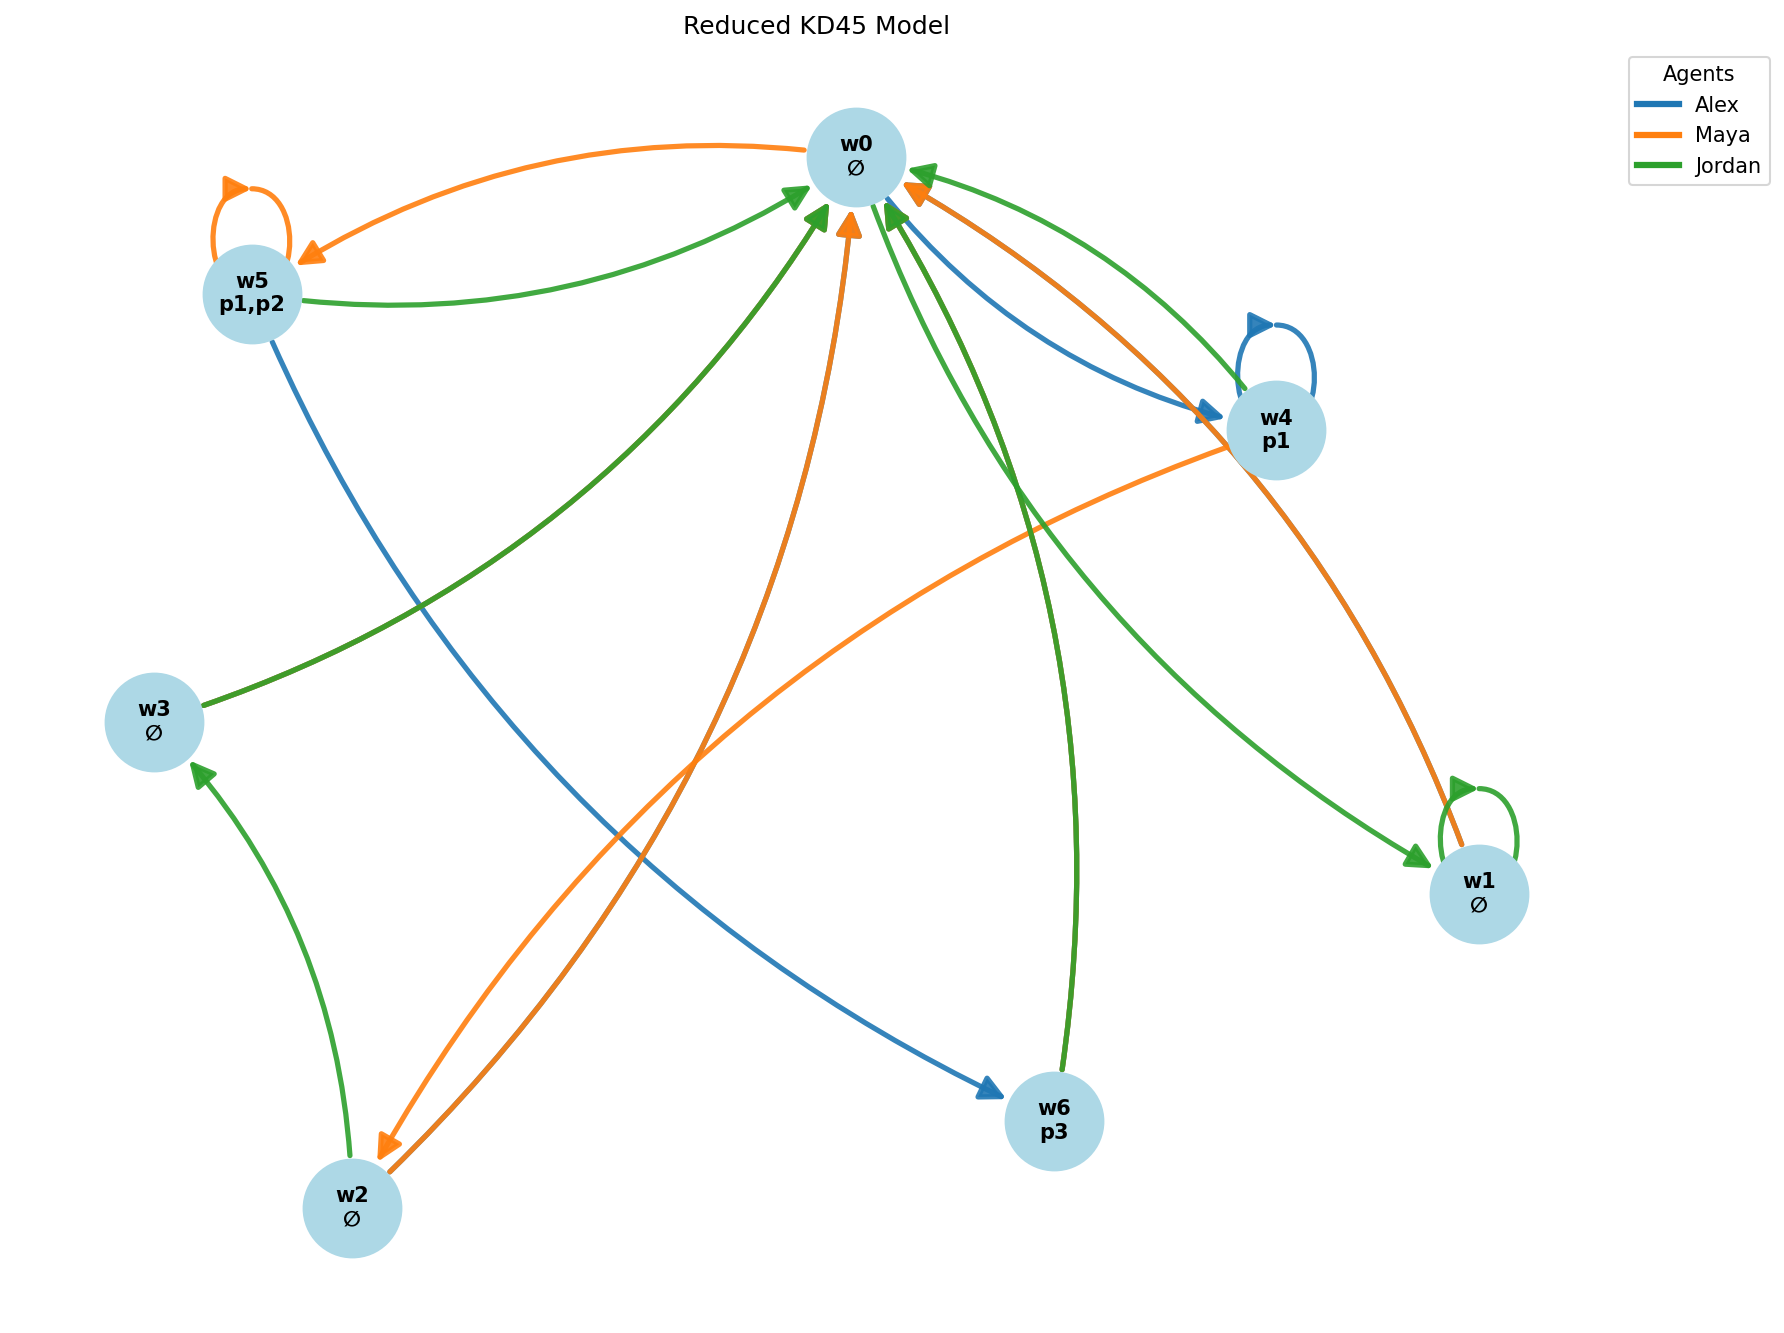
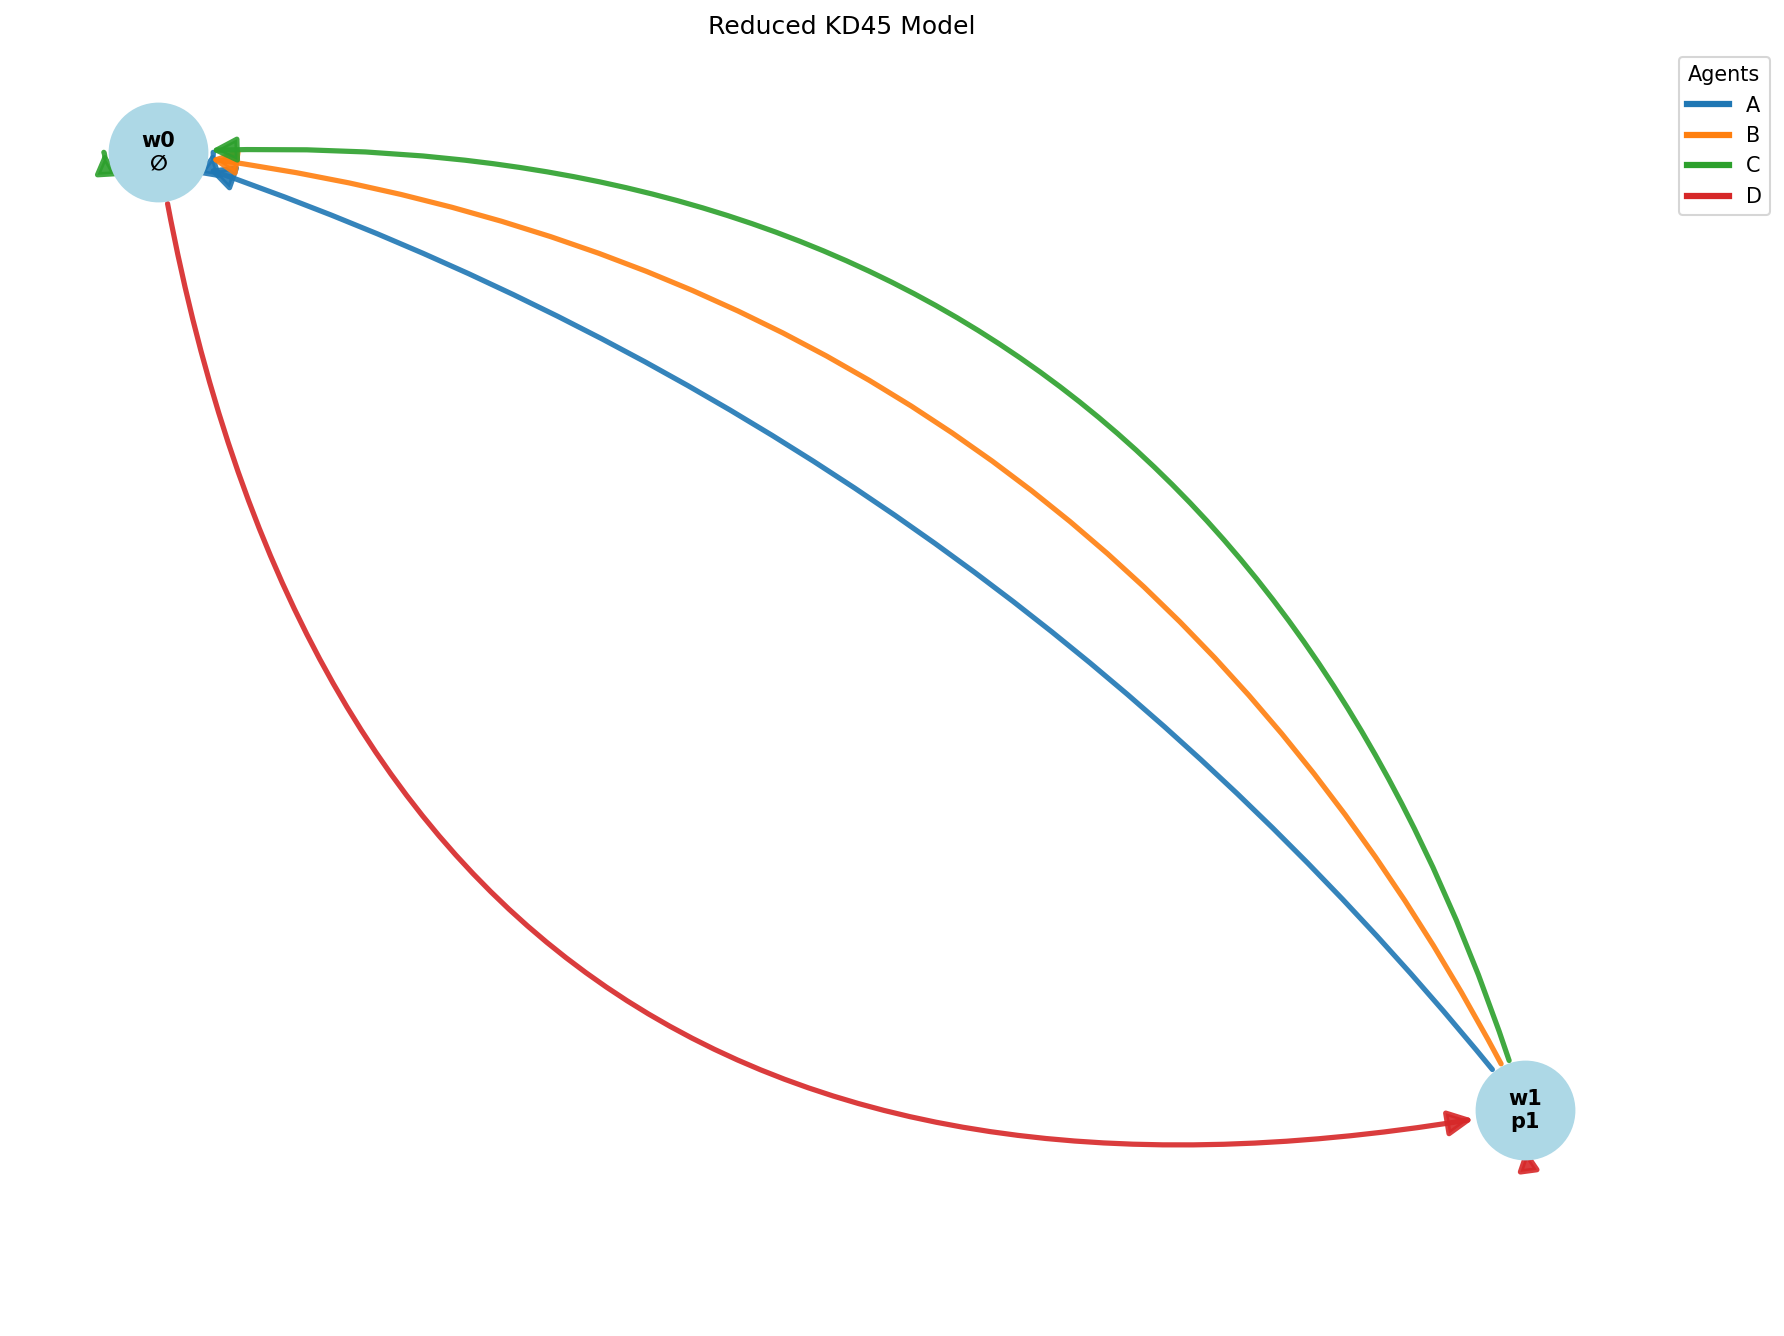
fixes and visual

diff --git a/kripke/model.py b/kripke/model.py
@@ -4,6 +4,7 @@ from core.ast_parser import Proposition, Not, Belief, Node
 
 @dataclass
 class KripkeModel:
+    
     worlds: List[int]
     agents: List[str]
     propositions: List[str]
@@ -13,81 +14,143 @@ class KripkeModel:
     enforce_frame: bool = True
 
     def __post_init__(self):
-        if self.enforce_frame:
+        if not self.enforce_frame or self.requirements is None:
+            return
+
+        changed = True
+        while changed:
+            before_rel = {a: set(r) for a, r in self.relations.items()}
+            before_req = {w: set(f) for w, f in self.requirements.items()}
+
             self._enforce_kd45()
-        if self.requirements is not None:
             self._saturate_beliefs()
 
+            if before_rel == self.relations and before_req == self.requirements:
+                changed = False
+                
+        self.worlds = list(self.requirements.keys())
+
     def _enforce_kd45(self):
-        """Добавляет транзитивность, евклидовость и серийность."""
         for agent in self.agents:
             rel = set(self.relations.get(agent, set()))
             all_worlds = set(self.worlds)
 
             # Транзитивность и евклидовость до фиксированной точки
             while True:
-                new_rel = set(rel)
+                changed = False
+                
+                while True:
+                    new_rel = set(rel)
 
-                # Транзитивность: (u,v) и (v,w) -> (u,w)
-                for (u, v) in rel:
-                    for (x, w) in rel:
-                        if v == x:
-                            new_rel.add((u, w))
+                    # Транзитивность: (u,v) и (v,w) -> (u,w)
+                    for (u, v) in rel:
+                        for (x, w) in rel:
+                            if v == x:
+                                new_rel.add((u, w))
 
-                # Евклидовость: (u,v) и (u,w) -> (v,w)
-                for (u, v) in rel:
-                    for (x, y) in rel:
-                        if u == x and v != y:
-                            new_rel.add((v, y))
+                    # Евклидовость: (u,v) и (u,w) -> (v,w)
+                    for (u, v) in rel:
+                        for (x, y) in rel:
+                            if u == x and v != y:
+                                new_rel.add((v, y))
 
-                if new_rel == rel:
+                    if new_rel == rel:
+                        break
+                    rel = new_rel
+
+                # Серийность: у каждого мира должна быть хотя бы одна исходящая дуга
+                worlds_with_outgoing = {u for (u, v) in rel}
+                worlds_needing_edges = all_worlds - worlds_with_outgoing
+
+                if worlds_needing_edges:
+                    # Если есть хоть один мир с исходящей дугой, цепляемся к нему,
+                    # иначе создаём петлю на первом попавшемся мире.
+                    reachable_worlds = {v for (u,v) in rel}
+                    if reachable_worlds:
+                        target = next(iter(reachable_worlds))
+                    else:
+                        target = 0 if 0 in all_worlds else next(iter(all_worlds))
+                    
+                    for w in worlds_needing_edges:
+                        rel.add((w, target))
+                    
+                    changed = True
+                
+                if not changed:
                     break
-                rel = new_rel
-
-            # Серийность: у каждого мира должна быть хотя бы одна исходящая дуга
-            worlds_with_outgoing = {u for (u, v) in rel}
-            worlds_needing_edges = all_worlds - worlds_with_outgoing
-
-            if worlds_needing_edges and all_worlds:
-                # Если есть хоть один мир с исходящей дугой, цепляемся к нему,
-                # иначе создаём петлю на первом попавшемся мире.
-                if worlds_with_outgoing:
-                    target = next(iter(worlds_with_outgoing))
-                else:
-                    target = next(iter(all_worlds))
-                for w in worlds_needing_edges:
-                    rel.add((w, target))
 
             self.relations[agent] = rel
 
     def _saturate_beliefs(self):
-        """
-        После KD45-замыкания гарантирует, что все Belief-формулы остаются истинными.
-        Для каждого мира w и каждой формулы B_a φ из требований этого мира,
-        добавляем φ во все миры v, достижимые из w по агенту a.
-        """
         changed = True
         while changed:
             changed = False
-            for w, formulas in self.requirements.items():
+            for w, formulas in list(self.requirements.items()):
                 for f in formulas:
                     if isinstance(f, Belief):
                         agent = f.agent
                         sub = f.child
-                        for (u, v) in self.relations[agent]:
-                            if u == w:
-                                reqs = self.requirements.setdefault(v, set())
-                                if sub not in reqs:
-                                    reqs.add(sub)
-                                    # Обновляем оценку для пропозициональных подформул
-                                    if isinstance(sub, Proposition):
-                                        idx = int(sub.name[1:])
-                                        self.valuation.setdefault(v, set()).add(idx)
-                                    elif isinstance(sub, Not) and isinstance(sub.child, Proposition):
-                                        idx = int(sub.child.name[1:])
-                                        self.valuation.setdefault(v, set()).discard(idx)
-                                    changed = True
-                            # Вложенные Belief обрабатываются рекурсивно благодаря changed
+                        
+                        targets = {v for (u, v) in self.relations[agent] if u == w}
+                        for v in targets:
+                            if self._add_requirement_fixed(v, sub):
+                                changed = True
+                                
+    def _add_requirement_fixed(self, world, formula):
+        
+        if formula in self.requirements[world]:
+            return False
+        
+        self.requirements[world].add(formula)
+         
+        if isinstance(formula, Proposition):
+            idx = int(formula.name[1:])
+            self.valuation.setdefault(world, set()).add(idx)
+            
+        elif isinstance(formula, Not):
+            
+            child = formula.child
+            if isinstance(child, Proposition):
+                idx = int(child.name[1:])
+                self.valuation.setdefault(world, set()).discard(idx)
+
+            elif isinstance(child, Belief):
+                agent = child.agent
+                sub = child.child
+
+                targets = {v for (u, v) in self.relations[agent] if u == world}
+
+                if not targets:
+                    # создаём witness
+                    v = max(self.worlds) + 1
+                    self.worlds.append(v)
+                    self.relations[agent].add((world, v))
+                    self.requirements[v] = set()
+                    self.valuation[v] = set()
+                    targets = {v}
+
+                for v in targets:
+                    self._add_requirement_fixed(v, Not(sub))
+
+            else:
+                # двойное отрицание
+                return self._add_requirement_fixed(world, child.child)
+
+        elif isinstance(formula, Belief):
+            agent = formula.agent
+            sub = formula.child
+
+            targets = {v for (u, v) in self.relations[agent] if u == world}
+
+            if not targets:
+                return False
+            
+            changed = False
+
+            for v in targets:
+                self._add_requirement_fixed(v, sub)
+
+        return True
 
     def world_entails(self, world: int, prop_index: int) -> bool:
         return prop_index in self.valuation.get(world, set())

diff --git a/kripke/visualize.py b/kripke/visualize.py
@@ -1,5 +1,7 @@
 import networkx as nx
 import matplotlib.pyplot as plt
+from matplotlib.patches import FancyArrowPatch
+import numpy as np
 
 def draw_kripke_model(model, title="Kripke Model", save_path=None):
     G = nx.MultiDiGraph()
@@ -20,23 +22,55 @@ def draw_kripke_model(model, title="Kripke Model", save_path=None):
     plt.figure(figsize=(12, 9))
     nx.draw_networkx_nodes(G, pos, node_color='lightblue', node_size=2200)
 
-    for agent, color in agent_colors.items():
-        edges = [(u, v) for (u, v, d) in G.edges(data=True) if d['agent'] == agent]
-        nx.draw_networkx_edges(
-            G,
-            pos,
-            edgelist=edges,
-            edge_color=[color],
-            width=2.5,
-            alpha=0.9,
-            arrows=True,
-            arrowstyle='-|>',
-            arrowsize=25,
-            connectionstyle='arc3,rad=0.2',
-            min_source_margin=25,
-            min_target_margin=25
-        )
+    for idx, (agent, color) in enumerate(agent_colors.items()):
+        # Обычные рёбра (между разными мирами)
+        non_loop_edges = [(u, v) for (u, v, d) in G.edges(data=True) if d['agent'] == agent and u != v]
+        if non_loop_edges:
+            nx.draw_networkx_edges(
+                G,
+                pos,
+                edgelist=non_loop_edges,
+                edge_color=[color],
+                width=2.5,
+                alpha=0.9,
+                arrows=True,
+                arrowstyle='-|>',
+                arrowsize=25,
+                connectionstyle=f'arc3,rad={0.15 + idx * 0.12}',
+                min_source_margin=25,
+                min_target_margin=25
+            )
 
+        # Петли (self-loops)
+        loop_edges = [
+        (u, v)
+        for (u, v, d) in G.edges(data=True)
+        if d['agent'] == agent and u == v
+            ]
+
+        for loop_idx, (u, v) in enumerate(loop_edges):
+
+            x, y = pos[u]
+
+            # Смещение центра петли
+            angle = 2 * np.pi * (idx + loop_idx) / max(1, len(agent_colors))
+            dx = 0.08 * np.cos(angle)
+            dy = 0.08 * np.sin(angle)
+
+            loop = FancyArrowPatch(
+                (x + dx, y + dy),
+                (x + dx + 0.001, y + dy + 0.001),
+                connectionstyle=f"arc3,rad={0.5 + idx * 0.15}",
+                arrowstyle='-|>',
+                mutation_scale=20,
+                color=color,
+                linewidth=2.5,
+                alpha=0.9
+            )
+
+            plt.gca().add_patch(loop)
+
+    # Подписи узлов
     nx.draw_networkx_labels(
         G,
         pos,
@@ -44,6 +78,7 @@ def draw_kripke_model(model, title="Kripke Model", save_path=None):
         font_size=10,
         font_weight='bold'
     )
+
 
     for agent, color in agent_colors.items():
         plt.plot([], [], color=color, label=agent, linewidth=3)

diff --git a/kripke/example.py b/kripke/example.py
@@ -11,22 +11,17 @@ def main():
     sample_json = '''
     {
       "id": "2f72668afd61",
-      "topic": "Should voting age be lowered to 16 worldwide?",
+      "topic": "AI ethics",
       "text": "...",
-      "agents": ["Alex", "Maya", "Jordan"],
+      "agents": ["A", "B", "C", "D"],
       "propositions": [
-        "Voting age should be lowered to 16 worldwide.",
-        "Sixteen-year-olds are mature enough to vote responsibly.",
-        "Lowering the voting age will increase political engagement among youth."
+        "AI is dangerous."
       ],
       "formulas": [
-        "B_Alex(p1)",
-        "B_Maya(p1)",
-        "B_Maya(p2)",
-        "B_Jordan(¬p2)",
-        "B_Alex(B_Maya(B_Jordan(¬p2)))",
-        "B_Jordan(¬p3)",
-        "B_Maya(B_Alex(p3))"
+       "B_A(B_B(B_C(B_D(p1))))",
+       "B_B(B_C(B_D(p1)))",
+       "B_C(B_D(p1))",
+       "B_D(p1)"
       ],
       "depth": 3
     }
@@ -43,6 +38,10 @@ def main():
 
     reduced = compute_bisimulation_quotient(model)
     print(f"После сокращения: {len(reduced.worlds)} миров")
+    
+    for agent in reduced.agents:
+      print(f"{agent} edges: {reduced.relations.get(agent, set())}")
+      
     draw_kripke_model(reduced, title="Reduced KD45 Model", save_path="reduced_model.png")
 
     root = 0
@@ -51,6 +50,7 @@ def main():
         ast = parse_formula(f_str)
         result = reduced.check_formula(root, ast)
         print(f"{f_str}: {result}")
+        
 
 if __name__ == "__main__":
     main()

diff --git a/kripke/bisimulation.py b/kripke/bisimulation.py
@@ -1,6 +1,42 @@
 from collections import defaultdict
 from kripke.model import KripkeModel
 
+
+
+def repair_kd45_frame(model: KripkeModel):
+    for agent in model.agents:
+        rel = set(model.relations[agent])
+
+        changed = True
+        while changed:
+            changed = False
+            new_rel = set(rel)
+
+            for (u, v) in rel:
+                for (x, w) in rel:
+                    if v == x and (u, w) not in new_rel:
+                        new_rel.add((u, w))
+                        changed = True
+
+            for (u, v) in rel:
+                for (x, y) in rel:
+                    if u == x and (v, y) not in new_rel:
+                        new_rel.add((v, y))
+                        changed = True
+
+            rel = new_rel
+
+        for w in model.worlds:
+            has_outgoing = any(u == w for (u, v) in rel)
+
+            if not has_outgoing:
+                rel.add((w, w))
+
+        model.relations[agent] = rel
+
+
+
+
 def compute_bisimulation_quotient(model: KripkeModel) -> KripkeModel:
     worlds = model.worlds
     agents = model.agents
@@ -72,4 +108,7 @@ def compute_bisimulation_quotient(model: KripkeModel) -> KripkeModel:
         requirements=None,      # в фактор-модели требования не нужны для проверки формул
         enforce_frame=False
     )
+    
+    repair_kd45_frame(reduced)
+    
     return reduced

diff --git a/kripke/builder.py b/kripke/builder.py
@@ -64,7 +64,7 @@ class KripkeBuilder:
                     if isinstance(f, Belief):
                         agent = f.agent
                         sub = f.child
-                        for (u, v) in self.relations[agent]:
+                        for (u, v) in list(self.relations[agent]):
                             if u == w:
                                 if sub not in self.worlds[v]:
                                     self._add_requirement(v, sub)
